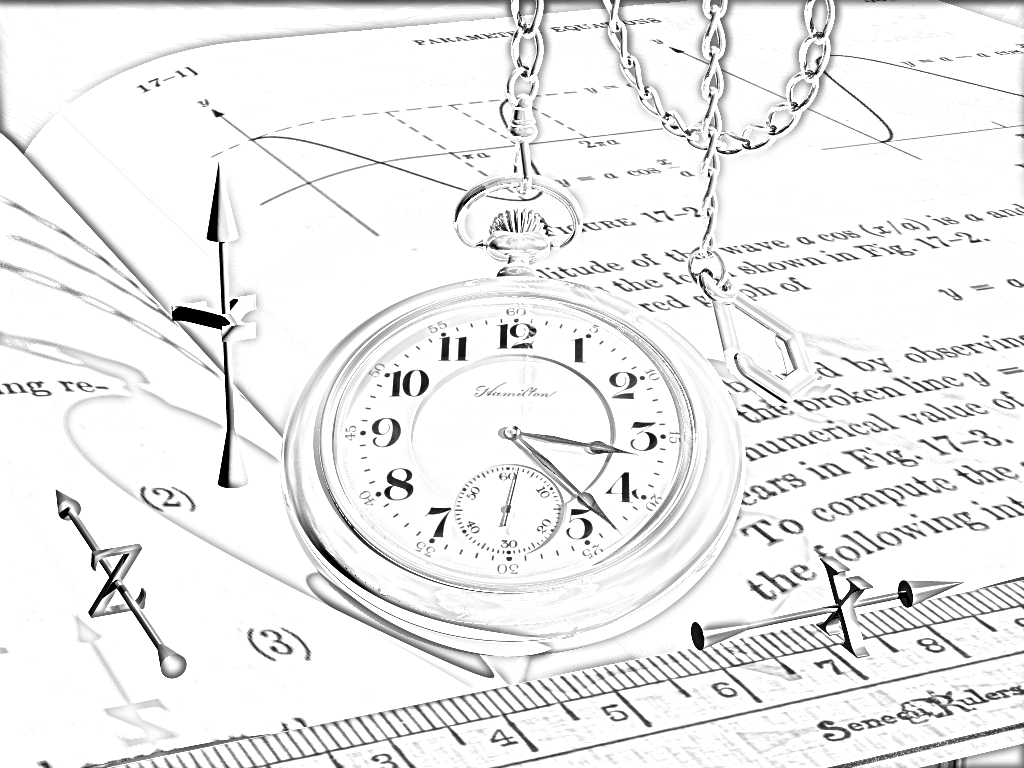
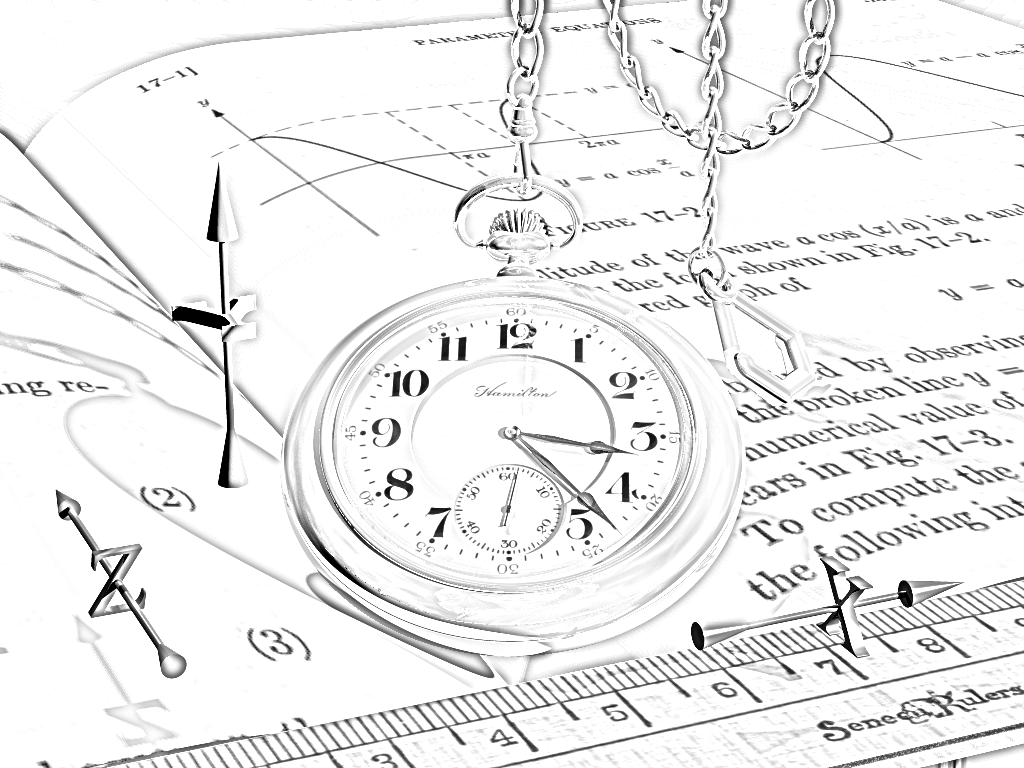
fixed mode on q4 from mean to edge

diff --git a/AT3/Q4.py b/AT3/Q4.py
@@ -39,7 +39,7 @@ def applyKernel(imageNdArray, kernel):
 def paddingByRepeatingBorder(imageNdArray, kernelSize):
     margin = kernelSize // 2
 
-    return np.pad(imageNdArray, margin, mode="mean") # pad the image by repeating the border pixels
+    return np.pad(imageNdArray, margin, mode="edge") # pad the image by repeating the border pixels
 
 
 def applyGaussianBlur(imageNdArray, kernelSize, sigma):
